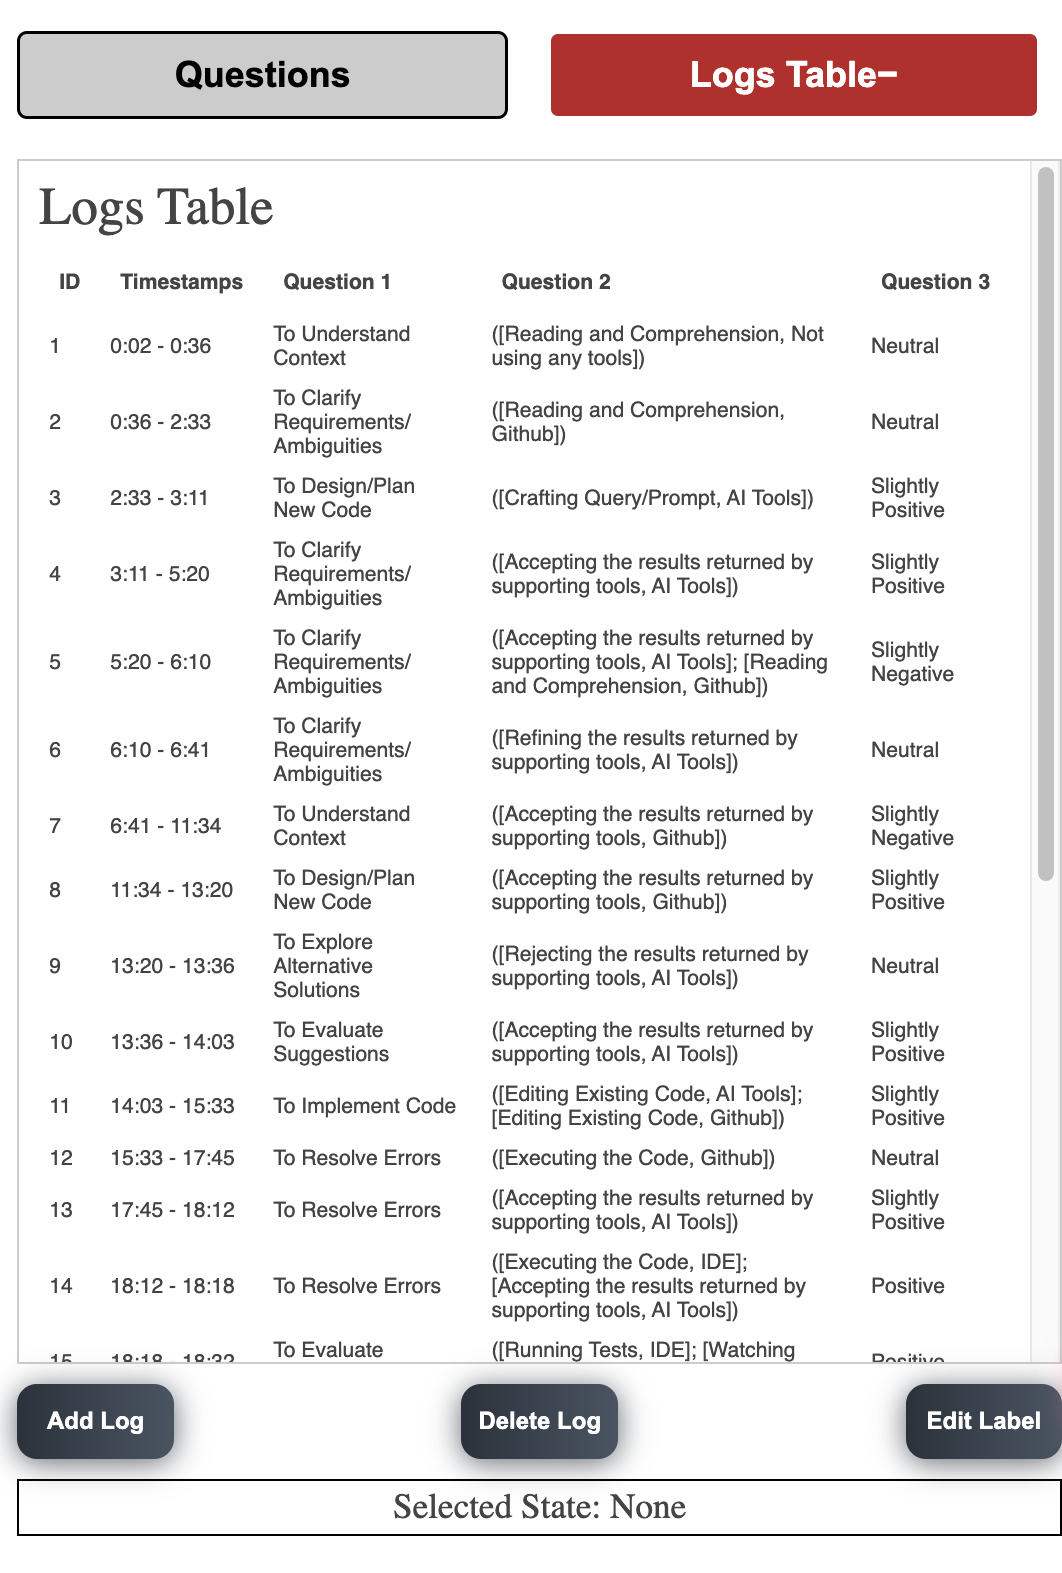
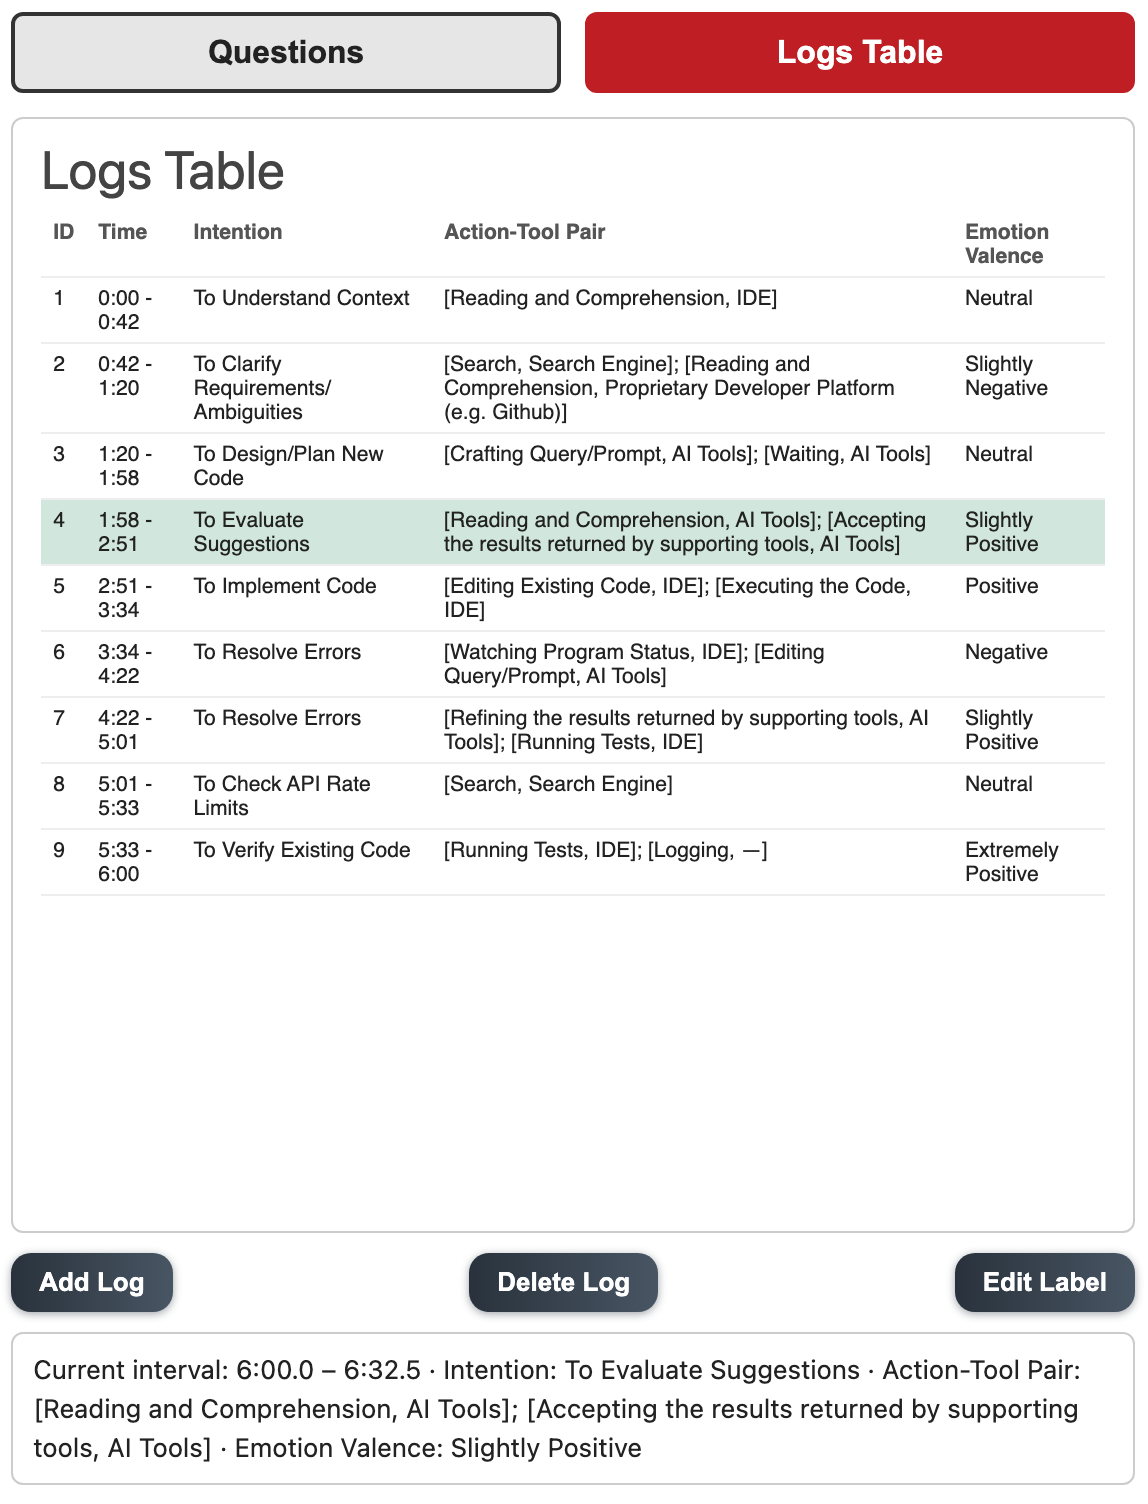
New screenshots of the reworked interface (README and project page)
- tool-overview.png (README and project page Figure 1), gui-rq123.png
  (Figure 2, numbered steps), questions-panel.png (Figure 3, replaces
  dropdown-hover.png) and logs-table.png (Figure 4), taken with
  headless Chrome at 2x with the made-up sample session loaded.
- The player shows a frame of a study recording taken from the previous
  overview figure (no keys or personal data in it).
- Captions and workflow text describe the new interface: typed or
  video times, Other... for custom labels, the definition under the
  intention menu, pairs as chips, JSON/CSV export.

Changed region(s): [[0.0, 0.0, 1.0, 1.0], [0.1864, 0.6562, 0.2175, 0.7812], [0.1243, 0.6562, 0.1554, 0.7812]]

diff --git a/docs/index.html b/docs/index.html
@@ -121,7 +121,7 @@
 
       <figure style="margin-top:2rem;">
         <img src="static/images/tool-overview.png" alt="DevSelfTrace tool overview">
-        <p class="figure-caption">Figure 1. DevSelfTrace graphical interface. Participants upload a screen recording, define time intervals, and annotate each interval across the four S-IASE dimensions.</p>
+        <p class="figure-caption">Figure 1. DevSelfTrace interface with the default S-IASE label set. Left: the questions for the interval being annotated (here with the made-up sample session loaded). Right: the participant's screen recording, the interval's start and end, and the session controls.</p>
       </figure>
     </div>
   </div>
@@ -138,10 +138,10 @@
         <span class="step-title">Upload a recording &amp; set a time interval</span>
       </div>
       <div class="content" style="margin-top:0.6rem;">
-        <p>Participants upload an MP4 screen recording of their programming session. Using a built-in video player, they navigate to a moment of interest and define a custom time interval with start/end timestamp selectors.</p>
+        <p>Participants load the screen recording of their programming session (MP4 or WebM; it plays only in their browser and is never uploaded). Using the built-in player, they move to a moment of interest and set the interval's start and end from the video, or type the times. The next interval starts where the previous one ended.</p>
         <figure>
           <img src="static/images/gui-rq123.png" alt="Uploading a recording and setting a time interval">
-          <p class="figure-caption">Figure 2. The participant uploads a screen recording (1), sets the start and end time of a specific time interval (2), and annotates the selected interval across four dimensions (3) via the corresponding dropdown menus.</p>
+          <p class="figure-caption">Figure 2. The participant loads a screen recording (1), sets the start and end time of an interval (2), and annotates the interval across the dimensions of the label set (3).</p>
         </figure>
       </div>
     </div>
@@ -149,13 +149,13 @@
     <div class="workflow-step">
       <div>
         <span class="step-number">2</span>
-        <span class="step-title">Annotate via guided dropdown menus</span>
+        <span class="step-title">Annotate with guided menus</span>
       </div>
       <div class="content" style="margin-top:0.6rem;">
-        <p>Each dimension comes with pre-defined options and accepts custom labels. Because <em>intention</em> is more abstract than the other dimensions, hovering over each intention reveals a short definition (e.g., <em>To Design/Plan New Code</em> → "Decide how to build something new").</p>
+        <p>Each dimension offers predefined options and, through <em>Other…</em>, custom labels. Because <em>intention</em> is more abstract than the other dimensions, the chosen intention's short definition is shown under the menu (e.g., <em>To Evaluate Suggestions</em> → "Check if AI/tool suggestions are good"). Actions and their supporting tools are added as pairs, shown as chips that can be removed. "Add Log" stays disabled until the interval is complete, and the summary says what is still missing.</p>
         <figure>
-          <img src="static/images/dropdown-hover.png" alt="Dropdown menu with hover tip for the intention dimension">
-          <p class="figure-caption">Figure 3. Dropdown menu selection. Hover tips help participants choose the most appropriate intention label.</p>
+          <img style="display:block; max-width:520px; margin:0 auto;" src="static/images/questions-panel.png" alt="Questions for one interval: intention with its definition, action-tool pairs as chips, emotion valence">
+          <p class="figure-caption">Figure 3. Annotating one interval: the chosen intention's definition below the menu, two action–tool pairs as chips, and the emotion valence.</p>
         </figure>
       </div>
     </div>
@@ -163,13 +163,13 @@
     <div class="workflow-step">
       <div>
         <span class="step-number">3</span>
-        <span class="step-title">Review &amp; export structured JSON</span>
+        <span class="step-title">Review &amp; export structured data</span>
       </div>
       <div class="content" style="margin-top:0.6rem;">
-        <p>A live log table shows every annotated interval and allows in-place edit or delete. When the session is done, all annotations are exported as a structured JSON file suitable for sequence mining, co-occurrence modeling, or qualitative coding.</p>
+        <p>A live log table shows every annotated interval; participants select a row to replay, edit, or delete it. Annotations are saved automatically and can be exported at any time as structured JSON (re-importable) or CSV, suitable for sequence mining, co-occurrence modeling, or qualitative coding.</p>
         <figure>
-          <img src="static/images/logs-table.png" alt="Logs table showing all annotated intervals">
-          <p class="figure-caption">Figure 4. Logs table displaying all existing annotations for review and editing.</p>
+          <img style="display:block; max-width:520px; margin:0 auto;" src="static/images/logs-table.png" alt="Logs table showing all annotated intervals">
+          <p class="figure-caption">Figure 4. Logs table with all annotated intervals of the sample session; the selected row can be replayed, edited, or deleted.</p>
         </figure>
 
         <p style="margin-top:1rem;">An example of a single annotated interval in the exported JSON (times in seconds; one key per dimension of the label set):</p>

diff --git a/README.md b/README.md
@@ -4,6 +4,8 @@
 
 **DevSelfTrace** is a browser-based tool for **retrospective self-annotation of programming behavior**. After a programming session, a developer watches their own screen recording, splits it into time intervals they choose, and labels each interval. With the default label set those labels are their **intention**, their **actions** with the **supporting tool** used for each, and their **emotion**. Researchers get the annotations as structured JSON or CSV for analysis such as sequential pattern mining or qualitative coding.
 
+![DevSelfTrace: questions for the current interval on the left, the screen recording and session controls on the right](docs/static/images/tool-overview.png)
+
 - **Try it online (nothing to install):** <https://yinanwusoymilk.github.io/DevSelfTrace/app/>
 - **Project page:** <https://yinanwusoymilk.github.io/DevSelfTrace/>
 - **Demo video:** <https://youtu.be/pXlFTPROoWk>
